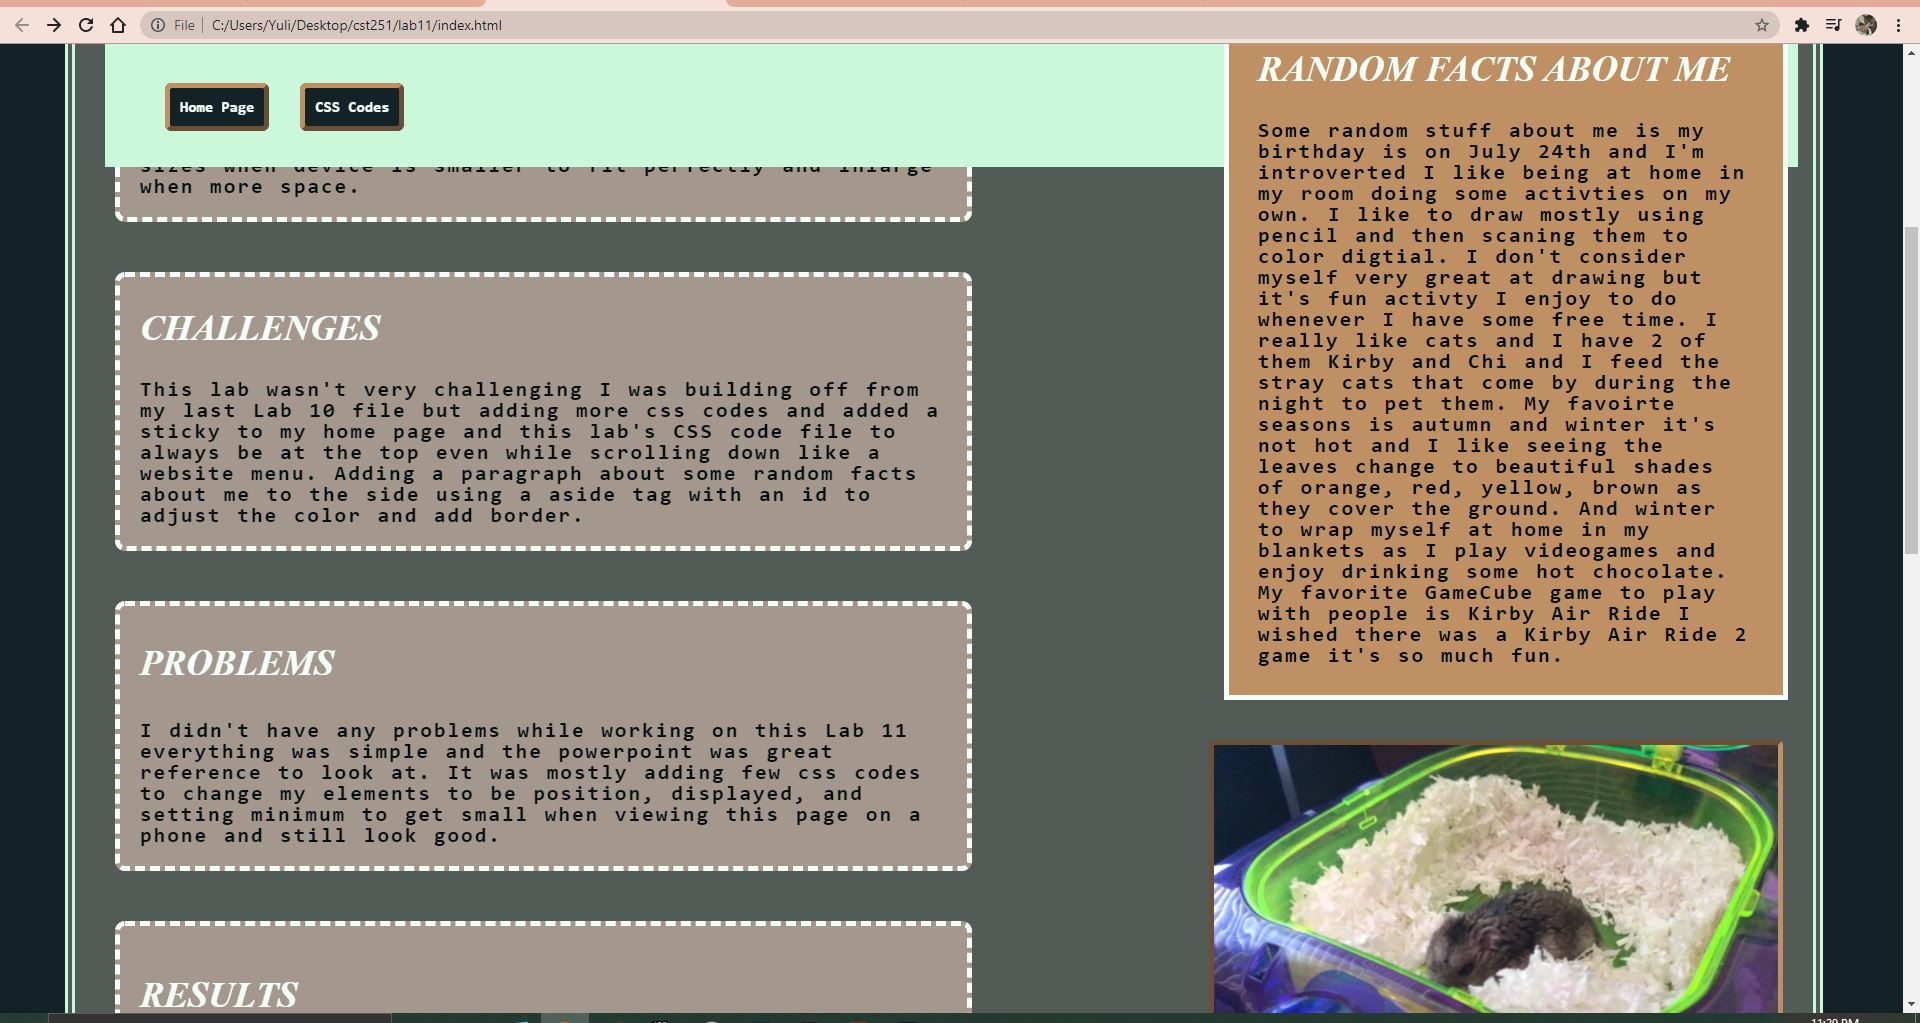
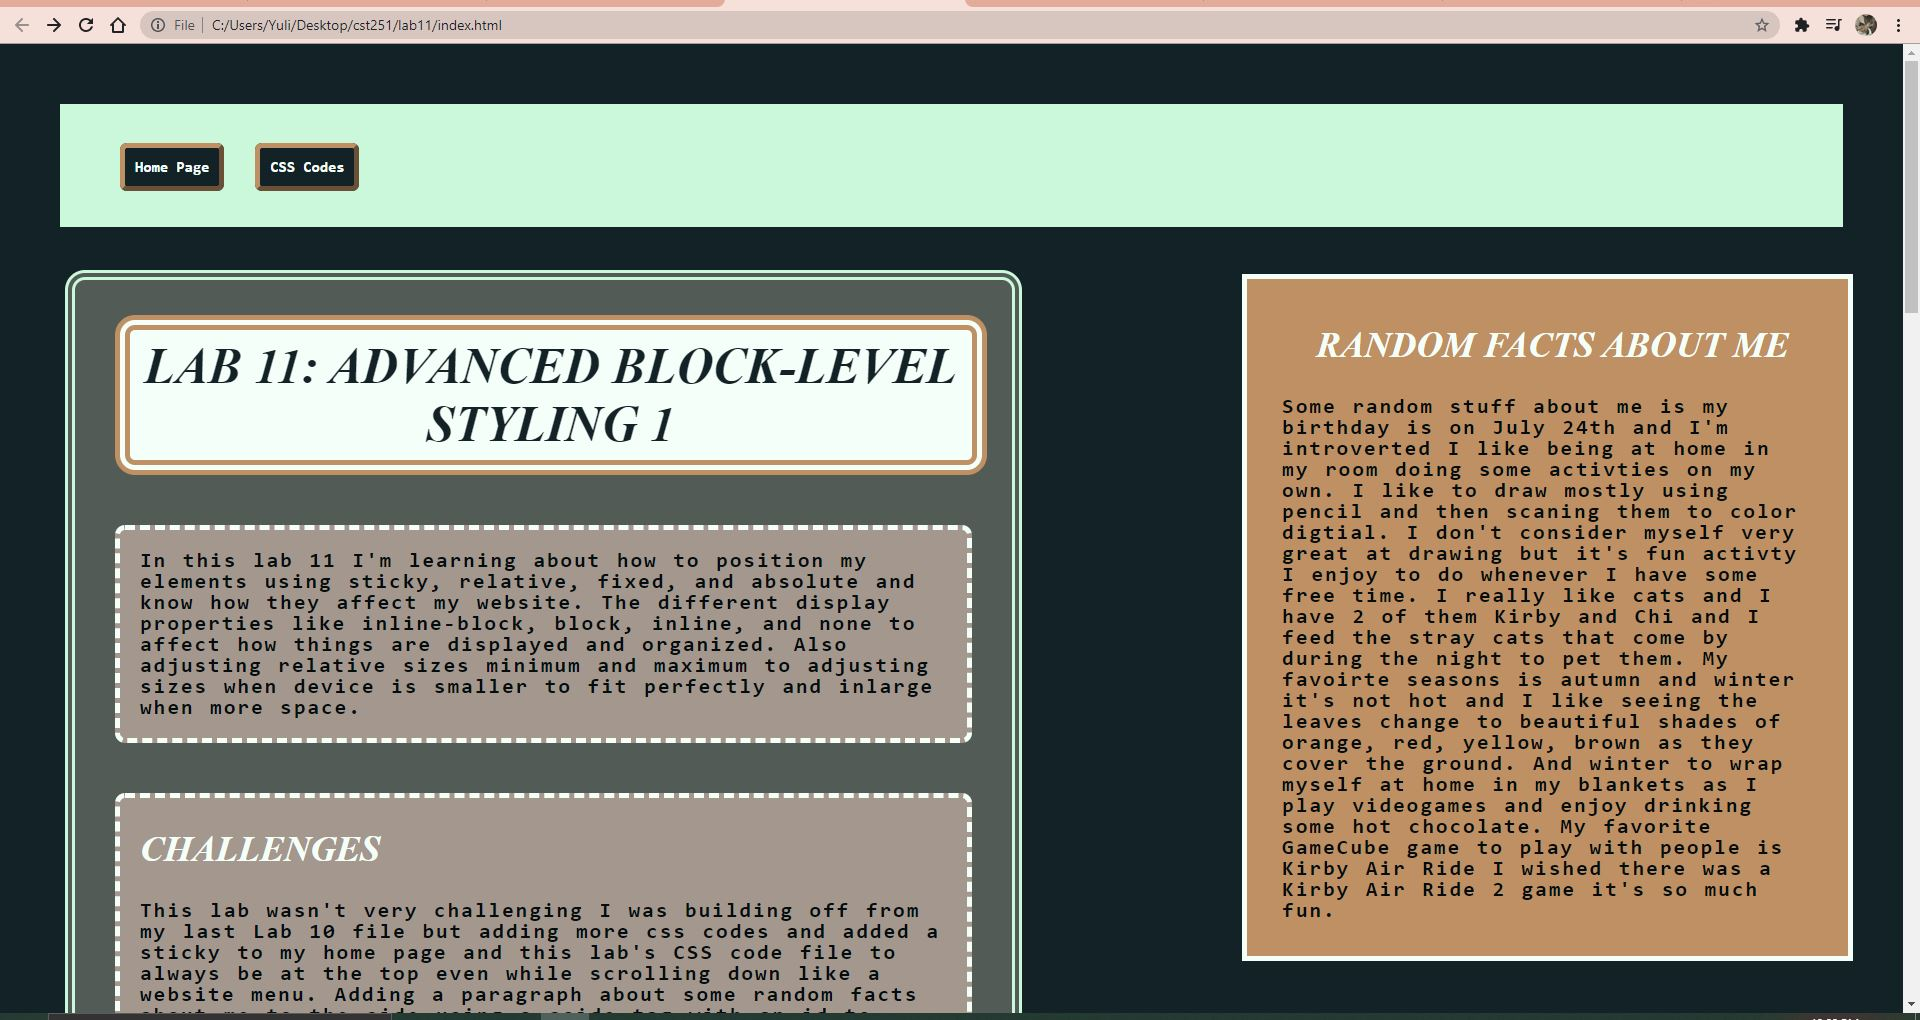
lab 11 aside
lab 11 fixed aside tag to  be at the right side.

diff --git a/lab11/index.html b/lab11/index.html
@@ -5,36 +5,33 @@
 	<link rel="stylesheet" type="text/css" href="css/lab.css">
 </head>
 <body>
+	<nav id="links">
+	<a href="../index.html">Home Page</a>
+	<a href="../lab11/css/lab.css" target=_"Codes">CSS Codes</a>
+	</nav><br>
+	<aside id="sidebar">
+	<h2 id="center">Random Facts About Me</h2>
+	<p>Some random stuff about me is my birthday is on July 24th and I'm introverted
+	I like being at home in my room doing some activties on my own. I like to draw
+	mostly using pencil and then scaning them to color digtial.  I don't consider
+	myself very great at drawing but it's fun activty I enjoy to do whenever I have
+	some free time. I really like cats and I have 2 of them Kirby and Chi and I feed
+	the stray cats that come by during the night to pet them.  My favoirte seasons
+	is autumn and winter it's not hot and I like seeing the leaves change to beautiful
+	shades of orange, red, yellow, brown as they cover the ground.  And winter to wrap
+	myself at home in my blankets as I play videogames and enjoy drinking some hot
+	chocolate.  My favorite GameCube game to play with people is Kirby Air Ride
+	I wished there was a Kirby Air Ride 2 game it's so much fun.</p>
+	</aside>
 	<main id="content">
 	<h1>Lab 11: Advanced Block-Level Styling 1</h1>
-		<nav id="links">
-		<a href="../index.html">Home Page</a>
-		<a href="../lab11/css/lab.css">CSS Codes</a>
-		</nav><br>
-		<div class="line">
-		<aside id="sidebar">
-		<h2>Random Facts About Me</h2>
-		<p>Some random stuff about me is my birthday is on July 24th and I'm introverted
-		I like being at home in my room doing some activties on my own. I like to draw
-		mostly using pencil and then scaning them to color digtial.  I don't consider
-		myself very great at drawing but it's fun activty I enjoy to do whenever I have
-		some free time. I really like cats and I have 2 of them Kirby and Chi and I feed
-		the stray cats that come by during the night to pet them.  My favoirte seasons
-		is autumn and winter it's not hot and I like seeing the leaves change to beautiful
-		shades of orange, red, yellow, brown as they cover the ground.  And winter to wrap
-		myself at home in my blankets as I play videogames and enjoy drinking some hot
-		chocolate.  My favorite GameCube game to play with people is Kirby Air Ride
-		I wished there was a Kirby Air Ride 2 game it's so much fun.</p>
-		</aside>
-		<img class="image-style" src="img/hamster.jpg">
-		</div>
 		<div class="border">
-		<p>In this lab 11 I'm learning about how to position my elements using sticky, relative,
-		fixed, and absolute and know how they affect my website. The different display
-	 	properties like inline-block, block, inline, and none to affect how things are
-		displayed and organized.  Also adjusting relative sizes minimum and maximum to
-		adjusting sizes when device is smaller to fit perfectly and inlarge when more
-		space.</p>
+		<p>In this lab 11 I'm learning about how to position my elements using sticky,
+		relative, fixed, and absolute and know how they affect my website. The
+		different display properties like inline-block, block, inline, and none to
+		affect how things are displayed and organized.  Also adjusting relative
+		sizes minimum and maximum to adjusting sizes when device is smaller to fit
+		perfectly and inlarge when more space.</p>
 		</div>
 		<div class="border">
 		<h2>Challenges</h2>
@@ -57,6 +54,8 @@
 		always be at the top no matter what and they both work.  And there is my
 		random facts about me on the side to read.</p><br>
 		</div><br>
+		<img class="image-style" src="img/hamster.jpg">
+	</main><br>
 
 		<div id="box">
 		<h5>Screenshots</h5>
@@ -71,6 +70,6 @@
 				</div>
 			</div>
 		</div>
-	</main>
+
 </body>
 </html>

diff --git a/lab11/css/lab.css b/lab11/css/lab.css
@@ -17,13 +17,16 @@ nav#links {
 
 aside#sidebar {
   background-color: #be9063;
-  position: relative;
-  padding: 9px;
+  position: absolute;
+  padding: 15px;
   border: solid 5px mintcream;
   float: right;
   height: auto;
-  min-width: 310px;
+  min-width: 300px;
   display: inline-block;
+  width: 30%;
+  top: 230px;
+  right: 50px;
 }
 
 main#content {
@@ -32,13 +35,18 @@ main#content {
   border-radius: 20px;
   margin: 20px 20px 10px 5px;
   padding: 5px 15px 60px 30px;
+  width: 50%;
+  height: auto;
 }
 
 .image-style {
-  float: right;
-  margin: 40px 5px 50px 5px;
   border: inset 5px #be9063;
   border-radius: 5px;
+  min-width: 300px;
+  display: inline-block;
+  margin: 0px 10px 50px 10px;
+  width: 95%;
+  height: auto;
 }
 
 p {
@@ -52,11 +60,15 @@ p {
 
 }
 
+#center {
+  text-align: center;
+}
+
 .border {
   background-color: #a4978e;
-  width: 50%;
+  width: 95%;
   height: auto;
-  margin: 50px 5px 50px 10px;
+  margin: 50px 10px 50px 10px;
   border-radius: 10px;
   border: dashed 5px mintcream;
 }
@@ -66,7 +78,7 @@ div#box {
   color: #70361b;
   border: double 8px mintcream;
   margin: 10px;
-  padding: 5px 25px 10px 30px;
+  padding: 60px 25px 10px 30px;
 }
 
 h1,h2,h3,h4,h5 {
@@ -103,24 +115,17 @@ a {
   text-decoration: none;
 }
 
-img {
-  width: 100%;
+#screenshot {
   height: auto;
   border: solid 2px #525b56;
   margin: 10px;
+  width: 100%;
+  height: auto;
+  min-width: 300px;
 }
 
 .row {
   display: flex;
-}
-
-div.line {
-  float: right;
-  min-width: 300px;
-  display: inline-block;
-  margin: 50px 10px 0 10px;
-  width: 33.33%;
-  height: auto;
 }
 
 div.column {
